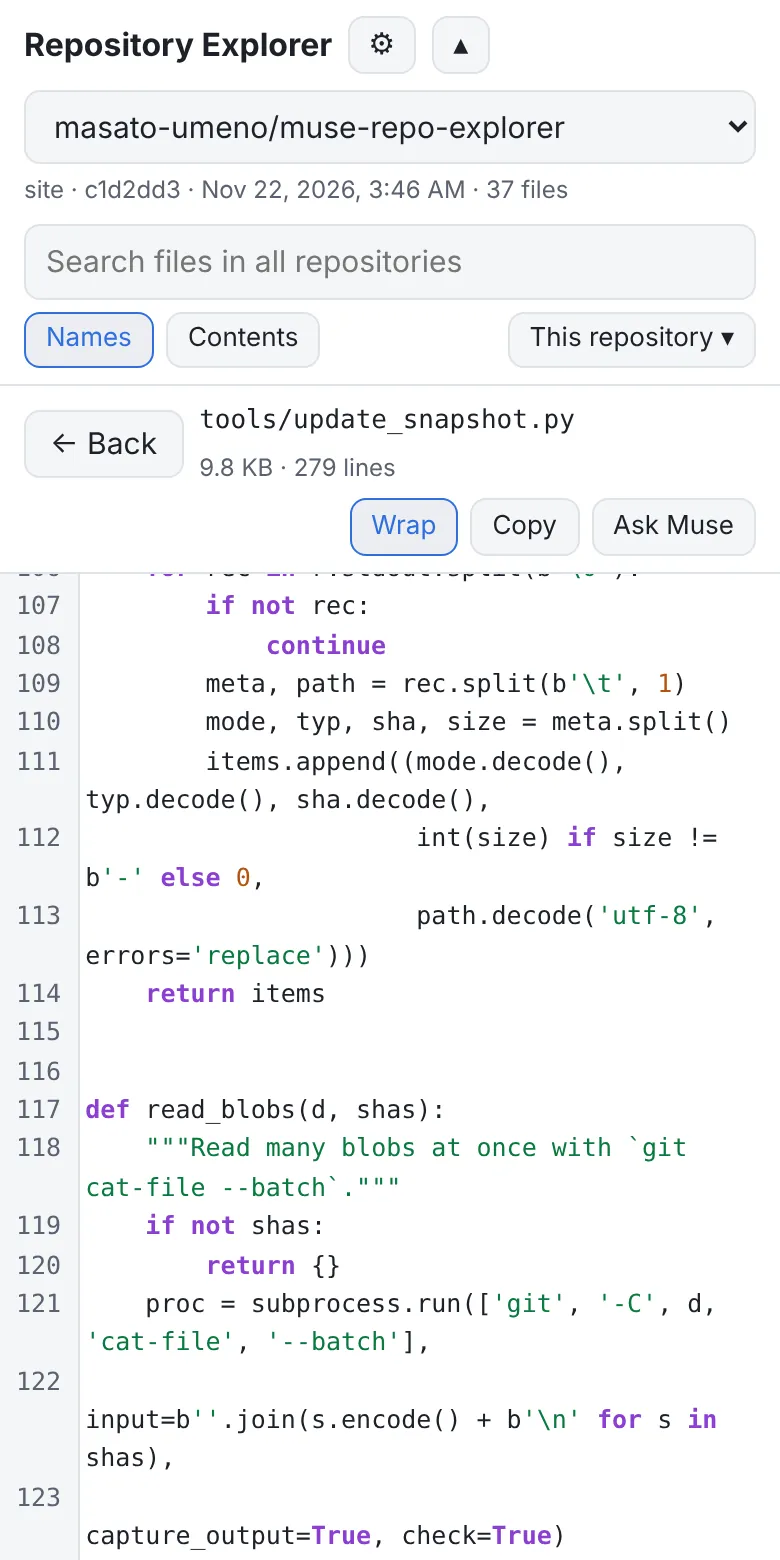
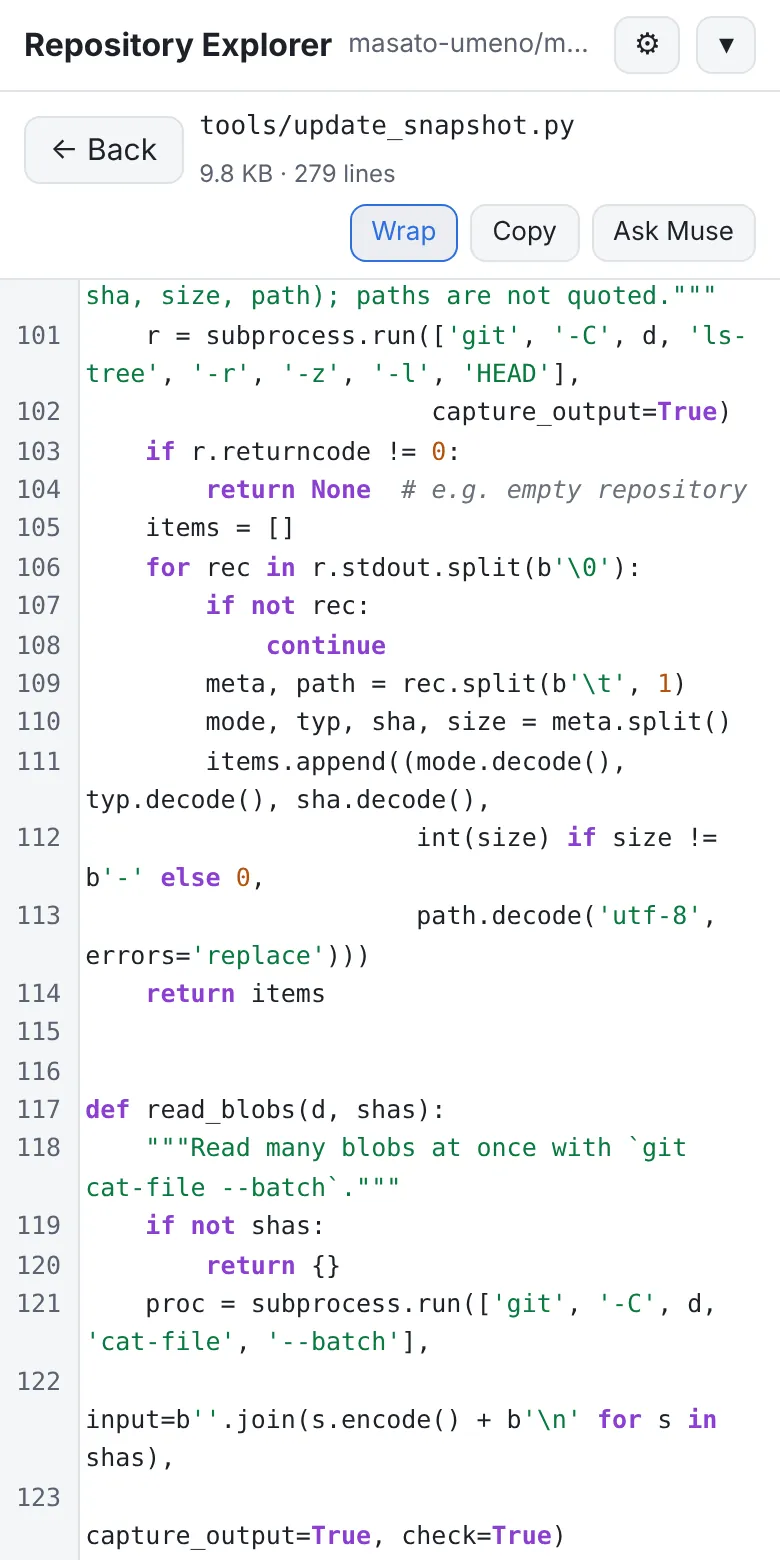
Explorer: top bar collapsed by default with a setting; drop the ask note
- The top bar (repository selector, search, scope) opens collapsed by
  default. Settings add "Top bar when opening": collapsed (default),
  expanded, or as last time (4 languages)
- The ask sheet no longer shows the note about Muse reading from its
  local clone
- Site screenshots retaken with the new default (search shown expanded)
- docs/page.md updated

Claude-Session: https://claude.ai/code/session_019nQFVwva2FK69GeJcZBDaM

diff --git a/page/index.html b/page/index.html
@@ -181,6 +181,10 @@ body.hdr-collapsed #hdrRepo { display: block; }
     </select>
     <h3 id="setViewLabel"></h3>
     <label class="row"><input type="checkbox" id="setWrap"> <span id="setWrapLabel"></span></label>
+    <h3 id="setHdrLabel"></h3>
+    <select id="setHdr">
+      <option value="collapsed"></option><option value="expanded"></option><option value="last"></option>
+    </select>
   </div>
 </div>
 <div id="askSheet" class="sheet" hidden role="dialog" aria-modal="true">
@@ -194,7 +198,6 @@ body.hdr-collapsed #hdrRepo { display: block; }
       <input id="askTo" type="number" inputmode="numeric" min="1" aria-label="to">
     </div>
     <pre id="askPreview" class="ask-preview" hidden></pre>
-    <div class="meta" id="askNote"></div>
     <p class="ask-how" id="askHow"></p>
     <div class="row" style="margin-top:8px"><span class="grow"></span>
       <button class="btn" id="askShare"></button><button class="btn primary" id="askCopy"></button></div>
@@ -229,11 +232,12 @@ var I18N = {
     'skipped.other': 'This file cannot be displayed.',
     wrap: 'Wrap',
     settings: 'Settings', language: 'Language', view: 'Display', wrapDefault: 'Wrap long lines',
+    hdrLabel: 'Top bar (search and repository) when opening', hdrCollapsed: 'Collapsed', hdrExpanded: 'Expanded', hdrLast: 'As last time',
     collapse: 'Hide', expand: 'Show',
     ask: 'Ask Muse', askTitle: 'Write a question for Muse', askQ: 'Your question (optional)',
     askShare: 'Share…', askCopy: 'Copy to clipboard', askCopied: 'Copied to the clipboard. Paste it into your Muse chat.',
     askHow: 'The question is copied to the clipboard. Paste it into your Muse chat and send it.',
-    askNote: 'Muse reads the specified lines from its local clone. Without line numbers, the question is about the whole file.', askFileN: function (n) { return 'Whole file (' + n + ' lines)'; },
+    askFileN: function (n) { return 'Whole file (' + n + ' lines)'; },
     askRange: 'Lines', more: function (n) { return '… ' + n + ' more lines'; },
     askHead: 'Reference', askBullet: '- ', askRepo: 'Repository: ', askFileL: 'File: ', askLinesL: 'Lines: ', askWholeL: 'entire file', askRead: 'Command: ', askOpen: ' (', askClose: ')', clearSel: 'Clear',
     selected: function (a, b) { return a === b ? 'Line ' + a : 'Lines ' + a + '–' + b; },
@@ -263,11 +267,12 @@ var I18N = {
     'skipped.other': 'このファイルは表示できません。',
     wrap: '折り返し',
     settings: '設定', language: '言語', view: '表示', wrapDefault: '長い行を折り返す',
+    hdrLabel: '開いたときの上部（検索・リポジトリ選択）', hdrCollapsed: '畳む', hdrExpanded: '開く', hdrLast: '前回の状態を維持',
     collapse: '畳む', expand: '開く',
     ask: 'Museに質問', askTitle: 'Muse への質問を作成', askQ: '質問（任意）',
     askShare: '共有…', askCopy: 'クリップボードにコピー', askCopied: 'クリップボードにコピーしました。Muse のチャットに貼り付けてください。',
     askHow: '質問文をクリップボードにコピーします。Muse のチャットに貼り付けて送信してください。',
-    askNote: 'Muse は手元の clone から指定した行を読みます。行を指定しない場合は、ファイル全体についての質問になります。', askFileN: function (n) { return 'ファイル全体（' + n + ' 行）'; },
+    askFileN: function (n) { return 'ファイル全体（' + n + ' 行）'; },
     askRange: '行', more: function (n) { return '… ほか ' + n + ' 行'; },
     askHead: '参照先', askBullet: '・', askRepo: 'リポジトリ：', askFileL: 'ファイル：', askLinesL: '行：', askWholeL: 'ファイル全体', askRead: '取得コマンド：', askOpen: '（', askClose: '）', clearSel: '解除',
     selected: function (a, b) { return a === b ? a + ' 行目' : a + '–' + b + ' 行目'; },
@@ -297,11 +302,12 @@ var I18N = {
     'skipped.other': '无法显示此文件。',
     wrap: '自动换行',
     settings: '设置', language: '语言', view: '显示', wrapDefault: '长行自动换行',
+    hdrLabel: '打开时的顶部（搜索与仓库选择）', hdrCollapsed: '收起', hdrExpanded: '展开', hdrLast: '保持上次的状态',
     collapse: '收起', expand: '展开',
     ask: '向 Muse 提问', askTitle: '为 Muse 编写问题', askQ: '你的问题（可选）',
     askShare: '分享…', askCopy: '复制到剪贴板', askCopied: '已复制到剪贴板。请粘贴到 Muse 聊天中。',
     askHow: '问题文本将复制到剪贴板。请粘贴到 Muse 聊天中发送。',
-    askNote: 'Muse 会从本地克隆读取指定的行。未指定行时，问题针对整个文件。', askFileN: function (n) { return '整个文件（' + n + ' 行）'; },
+    askFileN: function (n) { return '整个文件（' + n + ' 行）'; },
     askRange: '行', more: function (n) { return '… 另有 ' + n + ' 行'; },
     askHead: '参考位置', askBullet: '• ', askRepo: '仓库：', askFileL: '文件：', askLinesL: '行：', askWholeL: '整个文件', askRead: '获取命令：', askOpen: '（', askClose: '）', clearSel: '清除',
     selected: function (a, b) { return a === b ? '第 ' + a + ' 行' : '第 ' + a + '–' + b + ' 行'; },
@@ -331,11 +337,12 @@ var I18N = {
     'skipped.other': '이 파일은 표시할 수 없습니다.',
     wrap: '줄바꿈',
     settings: '설정', language: '언어', view: '표시', wrapDefault: '긴 줄 줄바꿈',
+    hdrLabel: '열 때의 상단(검색·저장소 선택)', hdrCollapsed: '접기', hdrExpanded: '펼치기', hdrLast: '지난번 상태 유지',
     collapse: '접기', expand: '펼치기',
     ask: 'Muse에 질문', askTitle: 'Muse에게 보낼 질문 작성', askQ: '질문(선택)',
     askShare: '공유…', askCopy: '클립보드에 복사', askCopied: '클립보드에 복사했습니다. Muse 채팅에 붙여넣으십시오.',
     askHow: '질문이 클립보드에 복사됩니다. Muse 채팅에 붙여넣어 보내십시오.',
-    askNote: 'Muse는 로컬 clone에서 지정한 줄을 읽습니다. 줄을 지정하지 않으면 파일 전체에 대한 질문이 됩니다.', askFileN: function (n) { return '파일 전체(' + n + '줄)'; },
+    askFileN: function (n) { return '파일 전체(' + n + '줄)'; },
     askRange: '줄', more: function (n) { return '… 외 ' + n + '줄'; },
     askHead: '참조 위치', askBullet: '• ', askRepo: '저장소: ', askFileL: '파일: ', askLinesL: '줄: ', askWholeL: '파일 전체', askRead: '조회 명령: ', askOpen: ' (', askClose: ')', clearSel: '해제',
     selected: function (a, b) { return a === b ? a + '번째 줄' : a + '–' + b + '번째 줄'; },
@@ -1227,7 +1234,6 @@ function openAsk(repo, f, content, sel) {
   $('askTo').placeholder = String(askLines().length);
   $('askFrom').value = sel ? sel.a : '';
   $('askTo').value = sel ? sel.b : '';
-  $('askNote').textContent = t('askNote');
   updateAsk();
   $('askCopy').textContent = t('askCopy');
   $('askHow').textContent = t('askHow');
@@ -1290,6 +1296,10 @@ function openSettings() {
   $('setViewLabel').textContent = t('view');
   $('setWrapLabel').textContent = t('wrapDefault');
   $('setWrap').checked = wrapOn();
+  $('setHdrLabel').textContent = t('hdrLabel');
+  var opts = $('setHdr').options;
+  opts[0].textContent = t('hdrCollapsed'); opts[1].textContent = t('hdrExpanded'); opts[2].textContent = t('hdrLast');
+  $('setHdr').value = headerMode();
   $('settingsSheet').hidden = false;
 }
 function closeSettings() { $('settingsSheet').hidden = true; }
@@ -1306,12 +1316,19 @@ $('lang').addEventListener('change', function () {
   if ($('q').value.trim()) runSearch();
   if (!$('scopePanel').hidden) renderScopeList();
 });
+$('setHdr').addEventListener('change', function () {
+  store('rx.hdrmode', this.value);
+  if (this.value !== 'last') setHeader(this.value === 'collapsed');
+});
 $('setWrap').addEventListener('change', function () {
   store('rx.wrap', this.checked ? '1' : '0');
   if (DATA) route();
 });
 
-document.body.classList.toggle('hdr-collapsed', store('rx.hdr') === '0');
+// Header on open: collapsed by default; the settings can open it expanded or keep the last state.
+function headerMode() { var m = store('rx.hdrmode'); return m === 'expanded' || m === 'last' ? m : 'collapsed'; }
+document.body.classList.toggle('hdr-collapsed',
+  headerMode() === 'last' ? store('rx.hdr') !== '1' : headerMode() === 'collapsed');
 // Sticky offsets follow the real header height (it changes when data, language or panels change).
 if (window.ResizeObserver) {
   new ResizeObserver(function () {

diff --git a/docs/page.md b/docs/page.md
@@ -50,7 +50,8 @@ order: the viewer's choice in the settings (remembered), the initial language se
 setup (`setup --lang`, the language the user normally uses with Muse), and the browser language.
 English is the fallback.
 
-**Settings.** The gear button opens the settings: language and whether long lines wrap.
+**Settings.** The gear button opens the settings: language, whether long lines wrap, and how the
+top bar opens.
 
 **Navigation.**
 
@@ -85,9 +86,9 @@ a scope button shared by both:
 - The search runs in short slices so that the page remains responsive, and a new query cancels
   the previous one.
 
-**Header.** The button at the right of the title row collapses the repository selector, search
-field and scope panel to a single line that shows the selected repository. The state is
-remembered.
+**Header.** The repository selector, search field and scope panel open collapsed to a single line
+that shows the selected repository; the button at the right of the title row expands them. The
+settings choose how the page opens: collapsed (default), expanded, or as it was last time.
 
 **Asking Muse.**
 
